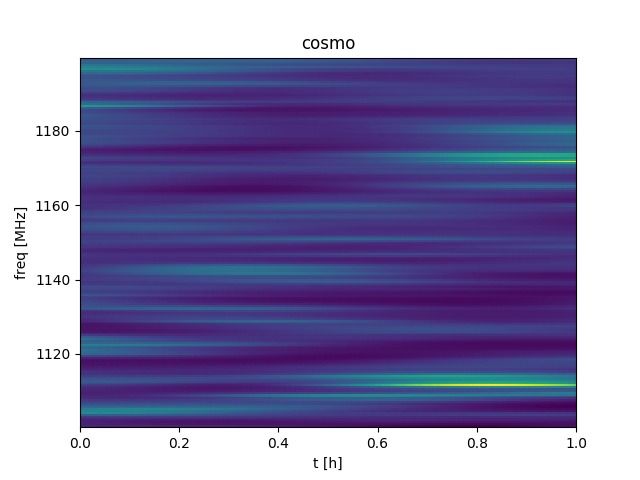
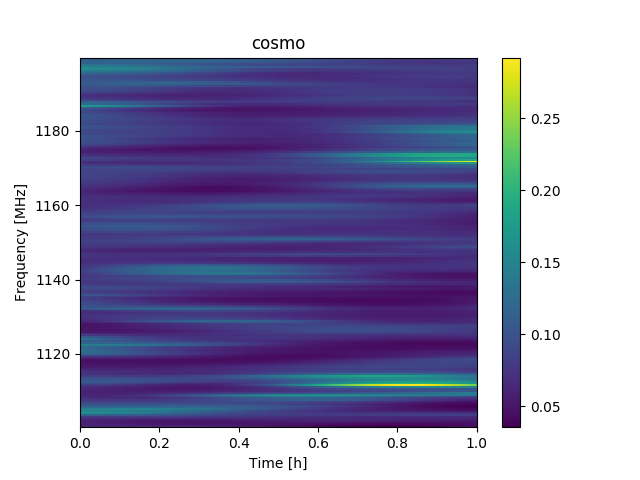
update infinite nu_f in simulation

diff --git a/logbook/postings/20171215_simulation/index.md b/logbook/postings/20171215_simulation/index.md
@@ -1,6 +1,8 @@
-## Dec 15, 2017 - Simulation Data
+# Dec 15, 2017 - Simulation Data
 
 The simulation data is generated with bmxsim from CRIME data. The CRIME data fields include cosmo, gfree, gsync, ptso, egfree.
+
+## 1. Full illuminated
 
 Cosmo image plot:
 
@@ -24,10 +26,42 @@ We can see two features from the above plots:
 - The value of all field data is much bigger than cosmo data.
 - All field data is much smoother than cosmo data.
 
-To get the cosmo data from all field data, I make a polynomial fit on the all field data, and subtract the polynomial curve from the all field data.
+To get the cosmo data from all field data, I make a polynomial fit of degree 3 on the all field data, and subtract the polynomial curve from the all field data.
 
-Cosmo data vs subtracted data
+Each field data and subtracted data:
 
 ![cosmo_subpoly](cosmo_subpoly.png)
 
-All field data minus polynomial fit gets the subpoly data normalized to zero, while the mean value of cosmo data is not zero. I add a bias value to the subpoly data, which is equal to the median value of the difference. Note that the bias value is unknown in a real environment.
+Foreground and gsync have a higher magnitude, so I plotted them individually.
+
+![foreground_gsync](foreground_gsync.png)
+
+All field data minus polynomial fit gets the subpoly data normalized to zero, while the mean value of cosmo data is not zero. Note that the bias value is unknown in a real environment.
+
+## 2. Infinite full illumination frequency
+
+Cosmo image plot:
+
+![cosmo](cosmo_img_inf.png)
+
+The cosmo image data is slightly higher than the illuminated image, although the shape is similar.
+
+All fields image plot:
+
+![full_img](full_img_inf.png)
+
+Each field data and subtracted data (polynomial fit of degree 3):
+
+![cosmo_subpoly](cosmo_subpoly_inf.png)
+
+Foreground and gsync:
+
+![foreground_gsync](foreground_gsync_inf.png)
+
+The point source field introduces noise to the subtracted data, so the polyfit subtraction doesn't work.
+
+## 3. Using a plain neural network to predict the bias
+
+To recover the bias of the cosmo field from subtracted data, I created a four-layer fully connected neural network with pytorch. The neural network takes the subtracted data as input. I generated 24-hour data, traind the neural network with 23-hour data and tested it with the rest one-hour data. The result looks good. This neural network can't deal with the ptso noise in the infinite nu_f either.
+
+![cosmo_nn](cosmo50.png)
